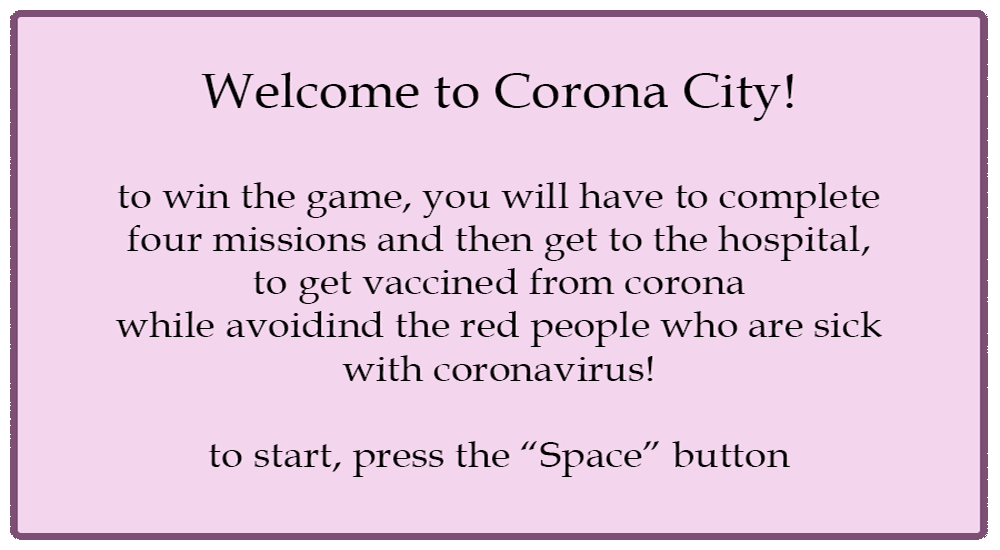
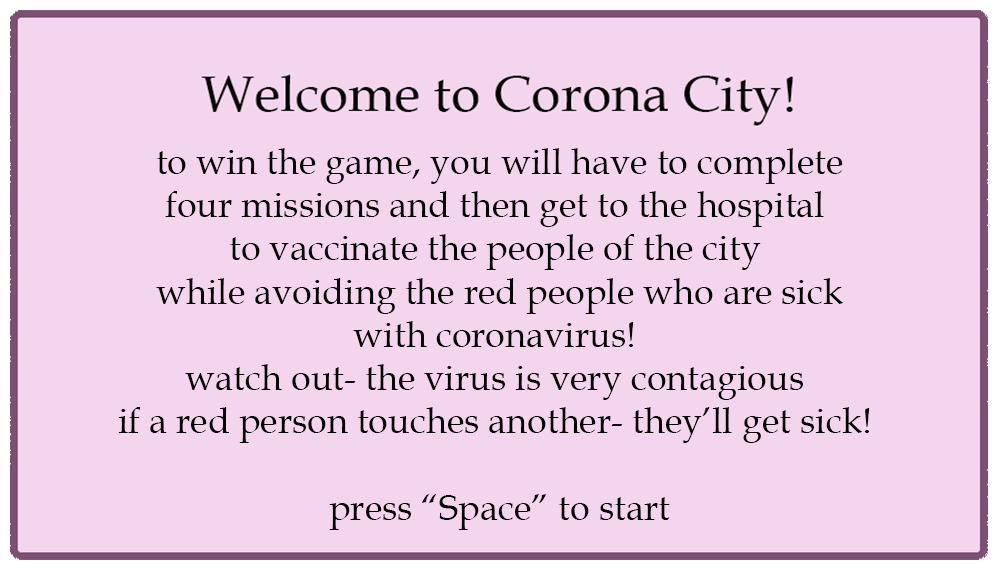
may's finished game

diff --git a/corona_city/background.js b/corona_city/background.js
@@ -42,9 +42,6 @@ const nurse = new Raster('assets/images/nurse2.png');
 nurse.position = [800, 510]
 
 
-
-var taskNames = ['pick up kid from kindergarten', 'buy a flower', 'buy milk from supermarket', 'go to the bank']
-
 const createMan = () => {
 
     var head = new Shape.Circle(new Point(670, 110), 10);
@@ -69,6 +66,7 @@ success1.position = [-1000, -1000]
 
 const main = () => {
 
+    let start = true
     var gamesound = new Howl({
         src: ['assets/sounds/background.mp3'],
         loop: true,
@@ -87,8 +85,14 @@ const main = () => {
         volume: 0.2
     });
 
+    var uhoh = new Howl({
+        src: ['assets/sounds/uhoh.mp3'],
+        loop: false,
+        volume: 0.2
+    });
+
     gamesound.play()
-    var first = true
+    var first = false
     var tasks = 0
     var something = false
     var something2 = false
@@ -96,25 +100,9 @@ const main = () => {
     let GameStarted = false
 
 
-    document.addEventListener('keyup', event => {
-        if (first) {
-            if (event.code == 'Space') {
-                instructions.position = [-1000, -1000]
-                GS.position = view.bounds.center;
-                setTimeout(function () {
-                    GS.position = [-1000, -1000]
-                    GS = new Raster('assets/images/blank.png');
-                }, 1000);
-                setTimeout(function () { choosenext().position = view.bounds.center }, 1000);
-
-            }
-        }
-
-    })
-
 
     const men = []
-    const num = 12
+    const num = 10
     const n = Math.random() * 12
     const ran = Math.round(n) + 1
     console.log(ran)
@@ -122,8 +110,61 @@ const main = () => {
         men.push(createMan())
     }
 
+
     const instructions = new Raster('assets/images/instructions.png');
     instructions.position = view.bounds.center
+    const pre = new Raster('assets/images/pre.png');
+    pre.position = view.bounds.center
+    const opening = new Raster('assets/images/opening.png');
+    opening.position = view.bounds.center
+    const faculty =  new Raster('assets/images/faculty.png');
+    faculty.position = [800,400]
+    faculty.onClick = function (event) {
+        window.location = 'https://arts.tau.ac.il/'
+    }
+
+    const git =  new Raster('assets/images/git.png');
+    git.position = [480,400]
+    git.onClick = function (event) {
+        window.location = 'https://github.com/mayageier'
+    }
+
+    const firstScreen = new Group(opening, faculty, git)
+    document.addEventListener('keyup', event => {
+        if (start){
+            if (event.code == 'Space') {
+                firstScreen.position = [-1000, -1000]
+                document.addEventListener('keyup', event => {
+                    if (event.code == 'Space') {
+                    pre.position = [-1000, -1000]
+                    first = true
+                    document.addEventListener('keyup', event => {
+                        if (first) {
+                            if (event.code == 'Space') {
+                                instructions.position = [-1000, -1000]
+                                GS.position = view.bounds.center;
+                                setTimeout(function () {
+                                    GS.position = [-1000, -1000]
+                                    GS = new Raster('assets/images/blank.png');
+                                }, 1000);
+                                if (start){
+                                    setTimeout(function () { choosenext().position = view.bounds.center }, 1000);
+                                }   
+                                start = false
+                                console.log("maya")
+                            }
+                        }
+                
+                    })
+                    }
+                })
+                }
+        }
+        
+    })
+
+
+
     const missions = []
     var GS = new Raster('assets/images/gameStarted.png');
     GS.position = [-1000, -1000]
@@ -198,7 +239,7 @@ const main = () => {
                     choosenext().position = view.bounds.center
                     kid.position = [-1000, -1000]
                     success = false;
-                    k.remove()
+
                 }
             }
         })
@@ -348,12 +389,7 @@ const main = () => {
             done()
             return blank;
         }
-        var choosetask = new Group(choose, success1)
-        // if (!first) {
-        //     success1.position = view.bounds.center
-        //     success1.position.y -= 200
-        //     missions.addChild(success1)
-        // }
+
         var choosetask = new Group(choose)
         for (let i = 0; i < missions.length; i++) {
             choosetask.addChild(missions[i])
@@ -379,7 +415,7 @@ const main = () => {
         vaccine.position = [-1000, -1000]
         document.addEventListener('keyup', event => {
             if (event.code == 'Space') {
-                ssetTimeout(function () { GameStarted = true }, 100);
+                setTimeout(function () { GameStarted = true }, 100);
                 congradulations.position = [-1000, -1000]
                 ok2.position = [-1000, -1000]
                 vaccine.position = [639, 142]
@@ -407,6 +443,7 @@ const main = () => {
                     }
                     gamesuccess.position = view.bounds.center
                     cheer.play()
+                    setTimeout(function () {gamesound.sound.fade(0, 1, 500); }, 3000);
                 }
             }
         })
@@ -466,6 +503,8 @@ const main = () => {
                 if (men[i].fillColor == 'red') {
                     console.log("game over")
                     Over = true;
+                    uhoh.play()
+                    gamesound.pause()
 
                 }
             }
@@ -515,20 +554,19 @@ const main = () => {
             checkCollision();
             men[1].fillColor = 'red'
         }
-        if (success){
-            k.remove()
-        }
-
 
         if (Over) {
+            choosenext().position =[-1000, -1000] 
             pu.position = [-1000, -1000]
             fl.position = [-1000, -1000]
             su.position = [-1000, -1000]
             ba.position = [-1000, -1000]
+            congradulations.position = [-1000, -1000]
             vaccine.position = [-1000, -1000]
             GO.position = view.bounds.center
             GameStarted = false;
             something = true;
+
         }
         if (something) {
             for (let i = 0; i < num; i++) {
